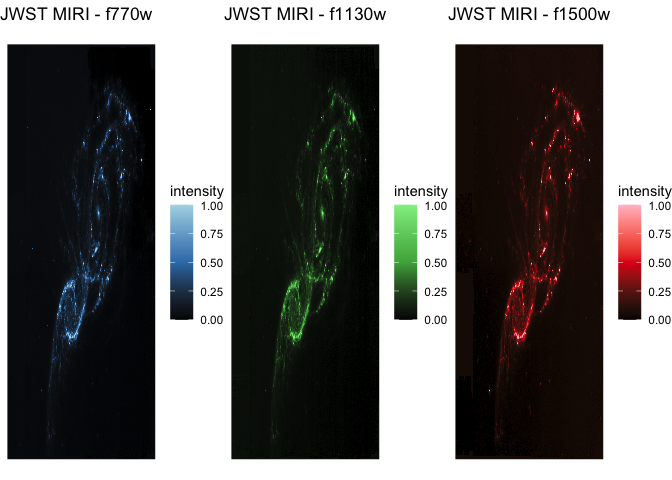
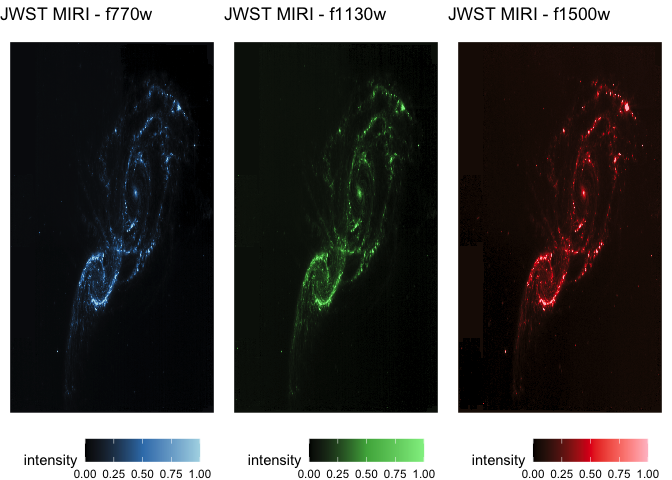
READ ME

diff --git a/README.md b/README.md
@@ -6,14 +6,20 @@ March 13th 2025
 # Introduction
 
 This project processes three JWST MIRI FITS images taken with filters
-**f770w**, **f1130w**, and **f1500w**. We build an RGB composite image
+**f770w**, **f1130w**, and **f1500w**. I build an RGB composite image
 from these three filters and perform additional data analyses to
-demonstrate our data science skills in R. These extra analyses
-include: - Visualizing each filter individually. - Computing summary
-statistics. - Plotting histograms of pixel intensities. - Evaluating
-correlations between the filters. - Performing Principal Component
-Analysis (PCA) to explore dominant variations. - Creating an interactive
-scatter plot.
+demonstrate our data science skills in R. These extra analyses include:
+
+\- Visualizing each filter individually.
+
+\- Computing summary statistics.
+
+\- Plotting histograms of pixel intensities.
+
+- Evaluating correlations between the filters.
+
+\- Performing Principal Component Analysis (PCA) to explore dominant
+variations.
 
 *PCA (Principal Component Analysis)* is a statistical technique that
 transforms data into a set of orthogonal (uncorrelated) components. The
@@ -33,13 +39,12 @@ library(tidyr)       # For reshaping data
 library(ggplot2)     # For static plotting
 library(ggspatial)   # For adding scale bars and north arrows in plots
 library(gridExtra)   # For arranging multiple ggplots together
-library(plotly)      # For interactive plots
 library(corrplot)    # For plotting correlation matrices
 ```
 
 # 2. Define Helper Functions
 
-Below we define several functions:
+Below I defined several functions:
 
 - **zscale_normalize**: Normalizes image data using the 5th and 95th
   percentiles.
@@ -148,7 +153,7 @@ filters <- list(
 
 # 4. Load Data from All Filters
 
-We loop through the filters and load the FITS data along with WCS
+I looped through the filters and load the FITS data along with WCS
 information.
 
 ``` r
@@ -158,7 +163,7 @@ names(filter_data) <- sapply(filter_data, function(x) x$name)
 
 # 5. Visualize Each Filter Individually
 
-Before creating the composite image, we display each filter’s image
+Before creating the composite image, I displayed each filter’s image
 individually in a row.
 
 ``` r
@@ -184,7 +189,8 @@ plot_filter_image <- function(filt, gamma = 0.8, contrast = 0.1, color_scale) {
     scale_fill_gradientn(colors = color_scale) +  # Apply correct filter color
     scale_y_reverse() +
     theme_void() +
-    labs(title = paste("JWST MIRI -", filt$name))
+    labs(title = paste("JWST MIRI -", filt$name)) +
+    theme(legend.position = "bottom")  # Move legend to the bottom
 }
 
 # Generate individual plots with correct colors
@@ -192,6 +198,13 @@ p_f770w <- plot_filter_image(filter_data$f770w, gamma = 0.8, contrast = 0.1, col
 p_f1130w <- plot_filter_image(filter_data$f1130w, gamma = 0.8, contrast = 0.1, color_f1130w)
 p_f1500w <- plot_filter_image(filter_data$f1500w, gamma = 0.8, contrast = 0.1, color_f1500w)
 
+
+print("Pixel intensity by Filter")
+```
+
+    ## [1] "Pixel intensity by Filter"
+
+``` r
 # Arrange them side-by-side
 grid.arrange(p_f770w, p_f1130w, p_f1500w, ncol = 3)
 ```
@@ -200,7 +213,7 @@ grid.arrange(p_f770w, p_f1130w, p_f1500w, ncol = 3)
 
 # 6. Create the Final RGB Composite Plot
 
-Now we combine the three filters into a single RGB composite image and
+Now I combined the three filters into a single RGB composite image and
 save the result.
 
 ``` r
@@ -215,7 +228,7 @@ save the result.
 
 ## 7.1 Summary Statistics
 
-We compute basic statistics (mean, median, standard deviation) for pixel
+I computed basic statistics (mean, median, standard deviation) for pixel
 intensities for each filter.
 
 ``` r
@@ -330,8 +343,8 @@ grid.arrange(p_log_f770w, p_log_f1130w, p_log_f1500w, ncol = 1)
 
 4.  **Better Visibility of Bulk**
 
-    - Because we used a log transform, we avoid having one huge bar at
-      zero and a nearly empty plot for the rest. Instead, we see how
+    - Because I used a log transform, I avoid having one huge bar at
+      zero and a nearly empty plot for the rest. Instead, we can see how
       intensities spread over a few orders of magnitude, revealing that
       the bulk is within 1–100 on the log scale, and only rare pixels
       exceed 100 or 1000.
@@ -344,7 +357,7 @@ logarithmic transformation.
 
 # 8. Correlation Analysis
 
-We combine the pixel data from all filters into a data frame and compute
+I combined the pixel data from all filters into a data frame and compute
 a correlation matrix to see how similar the images are across filters.
 
 ``` r
@@ -445,7 +458,7 @@ component is negligible.
 
 # Conclusion
 
-In this project, we:
+In this project, I:
 
 Loaded JWST MIRI FITS images from three filters.
 
